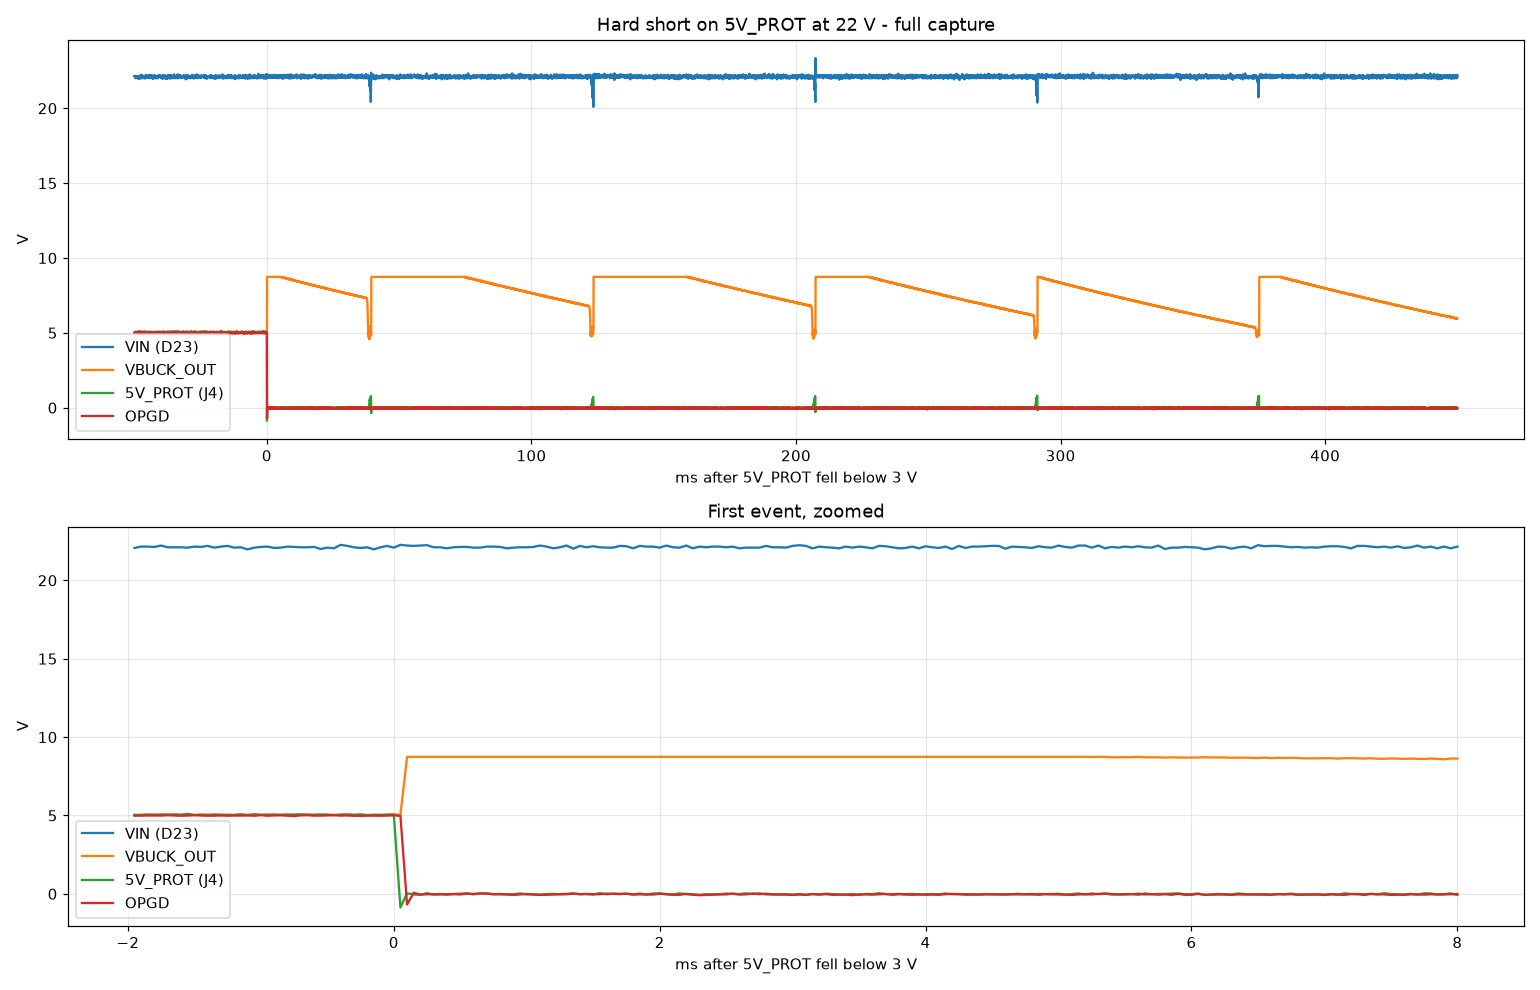
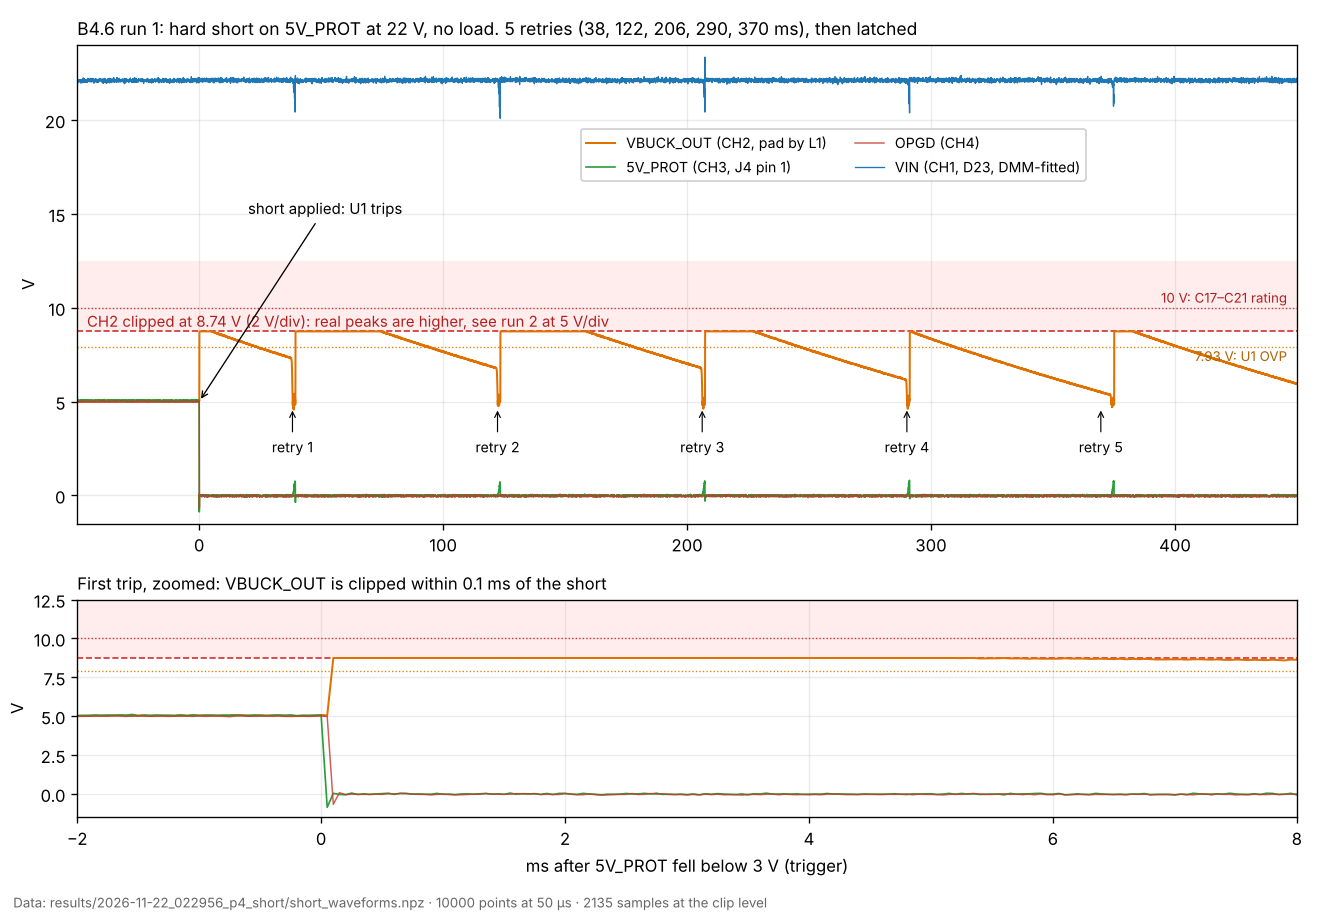
Label and annotate every scope capture; fix the short-circuit evidence
- bench_test/scope_annotated/: all 35 raw DHO804 captures with a title, test conditions,
  run folder, channel legend (signal, probe point, scale, coupling) and call-outs.
  Made by tools/annotate_scope.py from tools/scope_labels.py; raw files untouched.
- README: every scope figure is now the annotated capture, next to the Python plot of
  the same run where one exists (start-up, hot-plug, load step, short circuit).
- B4.6 short circuit: run 1 (CH2 at 2 V/div) clipped at 8.74 V, so its plot never
  showed the real peaks. Re-plotted with the clipping marked (tools/p4_short_replot.py).
  Run 2 (5 V/div) peaks read off the capture: ~9.3 V on the trip, 9.6-11.3 V on the
  5 retries, 4 of 5 above the 10 V rating of C17-C21 (was "~11 V on every retry").
- Removed the broken run 2 analysis plot (its waveform download held only 20 ms of
  pre-trigger data) and the images/scope_*.png duplicates of raw captures.

Changed region(s): [[0.0, 0.0, 0.9939, 1.0], [0.6523, 0.1228, 0.8076, 0.2149], [0.1864, 0.2149, 0.3106, 0.2456]]

diff --git a/README.md b/README.md
@@ -14,6 +14,7 @@ characterization: what it does, how close it is to its design, and where its lim
 | Original DVT/EOL test plan | [`bench_test/AeroDesign_PowerBoard_DVT_EOL_Test_Plan.xlsx`](bench_test/AeroDesign_PowerBoard_DVT_EOL_Test_Plan.xlsx) |
 | Automation scripts (PSU, scope, load) | [`bench_test/tools/`](bench_test/tools) |
 | Raw data and scope captures | [`bench_test/results/`](bench_test/results), [`bench_test/scope/`](bench_test/scope) |
+| Scope captures, labelled and annotated (all 35) | [`bench_test/scope_annotated/`](bench_test/scope_annotated) |
 | Probe and bodge-wire map | [`bench_test/probe_point_map.png`](bench_test/probe_point_map.png) |
 
 **Bench:**
@@ -78,6 +79,9 @@ The short-circuit test goes far beyond that. What is still untested is listed at
 
 ## Test cases
 
+Every scope capture below is the raw screenshot with a title, the test conditions, a channel legend (signal, probe point, scale) and call-outs added by [`annotate_scope.py`](bench_test/tools/annotate_scope.py). The originals are in [`bench_test/scope/`](bench_test/scope). Where the same run was also logged as data, its Python plot sits next to the capture.
+
+
 ### 1. Input protection thresholds
 **Method:** the supply is stepped 20 mV at a time with a 0.5 A load. VIN is measured at the board, and the
 input eFuse power-good flag marks the switching point. For reverse polarity, the supply leads are swapped and a
@@ -91,7 +95,9 @@ meter in series measures the current.
 
 | Input UVLO turn-on with 0.5 A load: clean, no chatter | Over-voltage trip at 24.9 V |
 |---|---|
-| ![](images/scope_uvlo_rise_0A5.png) | ![](images/scope_ovp_trip.png) |
+| ![B2.1 UVLO turn-on, annotated scope capture](bench_test/scope_annotated/B2.1_uvlo_rise.png) | ![B2.5 over-voltage trip, annotated scope capture](bench_test/scope_annotated/B2.5_ovp_trip.png) |
+| **UVLO turn-off** | **Over-voltage recovery at 23.0 V** |
+| ![B2.3 UVLO turn-off, annotated scope capture](bench_test/scope_annotated/B2.3_uvlo_fall.png) | ![B2.6 over-voltage recovery, annotated scope capture](bench_test/scope_annotated/B2.6_ovp_recover.png) |
 
 ### 2. Start-up and power sequencing
 **Method:** power is applied with a hand-touched + lead (ground fixed), as a battery plug-in would apply it.
@@ -105,7 +111,11 @@ All four rails are captured.
 - **Start-up into a 1.9 A load:** the rail is good at **9.3 ms (22 V) and 10.3 ms (7.4 V)**, with no restart.
   - At 7.4 V the input sags to 6.75 V, still 1.2 V above the UVLO turn-off.
 
-![Start-up at 12 V](images/startup.png)
+| Scope: 12 V, no load (annotated) | Logged data, same run |
+|---|---|
+| ![B3.4 start-up at 12 V, annotated scope capture](bench_test/scope_annotated/B3.4_12V_0A_opgd.png) | ![Start-up at 12 V, Python plot](images/startup.png) |
+
+Start-up into 1.9 A at 7.4 V, the worst case: [`B3.5_7V4_1A9_r2.png`](bench_test/scope_annotated/B3.5_7V4_1A9_r2.png).
 
 ### 3. Hot-plug overshoot
 **Method:** a live supply is touched onto the input, sampled at 3.2 ns with full bandwidth and no load.
@@ -115,7 +125,9 @@ All four rails are captured.
 - **Where it lands:** Q4's body diode then blocks reverse current, so the peak stays on U4's input, and the leads ring at about 2 MHz against D23.
 - **At 16.8 V (4S full charge):** VIN reaches **30.5 V**, on 30 V-rated parts. U4 is still off at that instant, so the buck FETs are not exposed.
 
-![Hot-plug overshoot](images/hotplug.png)
+| Scope: 16.8 V hot-plug (annotated) | Logged data, all three voltages |
+|---|---|
+| ![B3.6 hot-plug at 16.8 V, annotated scope capture](bench_test/scope_annotated/B3.6_hotplug_16.8V.png) | ![Hot-plug overshoot, Python plot](images/hotplug.png) |
 
 ### 4. Switch node
 **Result:**
@@ -125,9 +137,11 @@ All four rails are captured.
 - **The changeover** matches the 3.3 µH inductor's ≈ 2.9 A peak-to-peak ripple at 12 V in.
 - **Edge stress at 22 V:** the edge peaks at **23.4 V**, a 22 % margin to the 30 V FETs, and undershoots to -2.0 V (dead time).
 
-| 22 V, 1.9 A rising edge (1.25 GSa/s) | 12 V, no load: diode emulation |
+| 22 V, 1.9 A rising edge (1.25 GSa/s) | 22 V, 1.9 A falling edge (1.25 GSa/s) |
 |---|---|
-| ![](images/scope_sw_edge_22V_1A9.png) | ![](images/scope_sw_light_load_0A.png) |
+| ![B3.8 rising edge, annotated scope capture](bench_test/scope_annotated/B3.8_sw_rise_22V_1A9_1G25.png) | ![B3.8 falling edge, annotated scope capture](bench_test/scope_annotated/B3.8_sw_fall_22V_1A9_1G25.png) |
+| **12 V, 1.9 A: continuous, 308.8 kHz** | **12 V, no load: diode emulation** |
+| ![B3.7 switch-node frequency, annotated scope capture](bench_test/scope_annotated/B3.7_sw_freq_12V_1A9.png) | ![B3.9 switch node at no load, annotated scope capture](bench_test/scope_annotated/B3.9_sw_12V_0.0A.png) |
 
 ### 5. Efficiency and regulation
 **Method:** automatic sweep: 4 input voltages × 11 loads (0-1.9 A). Rails come from scope means, anchored to DMM
@@ -156,7 +170,9 @@ the ground loop. The noise floor was 2.5 mVpp.
 
 | 5V_PROT, 16.8 V / 1.9 A | VBUCK_OUT, 22 V / 1.9 A |
 |---|---|
-| ![](images/scope_ripple_5vprot_16V8_1A9.png) | ![](images/scope_ripple_vbuck_22V_1A9.png) |
+| ![B3.10 5V_PROT ripple, annotated scope capture](bench_test/scope_annotated/B3.10_vsrv_ripple_16V8_1A9.png) | ![B3.13 VBUCK_OUT ripple, annotated scope capture](bench_test/scope_annotated/B3.13_vbuck_ripple_22V_1A9.png) |
+| **Probe noise floor** | **Input ripple, 16.8 V / 1.9 A** |
+| ![B3.1 noise floor, annotated scope capture](bench_test/scope_annotated/B3.1_noisefloor.png) | ![B3.14 input ripple, annotated scope capture](bench_test/scope_annotated/B3.14_vin_ripple_16V8_1A9.png) |
 
 ### 7. Load step
 **Method:** the load's built-in square wave steps between 0.1 and 1.8 A (about 1.55 A), with edges of about 10 µs.
@@ -167,7 +183,11 @@ The scope averages 16 captures.
 - **Dip size:** **172 / 121 / 67 mV** at 7.4 / 16.8 / 22 V. It is largest at low VIN, where the inductor current can only ramp at (VIN - VOUT)/L ≈ 0.7 A/µs.
 - **Recovery:** 160-430 µs, slower than a 50 kHz crossover would give, so the loop is likely conservatively compensated.
 
-![Load step](images/loadstep.png)
+| Scope: 7.4 V, 0.1 → 1.8 A (annotated) | Logged data, all six steps |
+|---|---|
+| ![B3.19 load step at 7.4 V, annotated scope capture](bench_test/scope_annotated/B3.19_loadstep_7.4V_load.png) | ![Load step, Python plot](images/loadstep.png) |
+
+The other five steps: [`bench_test/scope_annotated/`](bench_test/scope_annotated/) (`B3.19_loadstep_*`).
 
 ### 8. Servo current sense
 **Result:**
@@ -189,17 +209,24 @@ The scope averages 16 captures.
 - **U1 trips at once** through its fast-trip path, rather than the 2 ms blanking used for overloads.
 - **It retries 5 times, then latches off.** The first retry comes after about 40 ms, the rest about 85 ms apart. A power-cycle recovers the board, with no damage.
 - **Each trip causes a load dump on VBUCK_OUT.** The inductor's stored energy (≈ ½ · 3.3 µH · 17.8 A² ≈ 0.5 mJ) has nowhere to go but C17-C21 (5 × 4.7 µF).
-  - Read off the capture below: VBUCK_OUT jumps to **≈ 8.9 V on the first trip and ≈ 11 V on every retry**.
-  - That is above U1's 7.93 V over-voltage threshold and **above the 10 V rating of C17-C21**.
+  - Read off run 2's capture (5 V/div, ±0.3 V): VBUCK_OUT jumps to **≈ 9.3 V on the first trip** and **9.6 to 11.3 V on the five retries**.
+  - Every one is above U1's 7.93 V over-voltage threshold, and **4 of the 5 retries go above the 10 V rating of C17-C21**.
+- **Two runs, and why both are shown:**
+  - Run 1 had VBUCK_OUT at 2 V/div. It went off the top of the screen, so its logged data flat-tops at 8.74 V. That is the scope's range, not the peak.
+  - Run 2 repeated the test at 5 V/div. Its waveform download failed (it saved only 20 ms before the trigger), so its screenshot is the record of the peaks.
 
-![Short circuit at 22 V: VBUCK_OUT (cyan, 5 V/div), 5V_PROT (magenta), OPGD (blue)](images/scope_short_circuit_22V.png)
+![B4.6 run 2: short circuit at 22 V, CH2 at 5 V/div, annotated scope capture](bench_test/scope_annotated/B4.6_short_22V_full_r2.png)
+
+Run 1, the logged data with the clipping marked ([raw capture](bench_test/scope_annotated/B4.6_short_22V_full.png)):
+
+![B4.6 run 1: logged data, VBUCK_OUT clipped at 8.74 V](bench_test/scope/B4.6_short_analysis.png)
 
 ## Findings
 
 | ID | Severity | Finding |
 |---|---|---|
 | F1 | **Major** | Hot-plug overshoot of 1.8× VIN: a 4S plug-in puts **30.5 V** on U4's input and 30 V parts. The D23 clamp (≈ 27-39 V) does not protect them. |
-| F2 | **Major** | Load dump on VBUCK_OUT at every servo eFuse trip: **≈ 11 V on 10 V-rated C17-C21**, above U1's 7.93 V over-voltage threshold. Too little buck-side capacitance. |
+| F2 | **Major** | Load dump on VBUCK_OUT at every servo eFuse trip: **up to ≈ 11.3 V on 10 V-rated C17-C21** (4 of 5 retries above 10 V), above U1's 7.93 V over-voltage threshold. Too little buck-side capacitance. |
 | F3 | **Major** | Current sense is 0.25 V/A (INA240A2 = 50 V/V; the design assumed 20 V/V). The FC ADC clips at **≈ 3.2 A** and sees > 3.3 V above that; the output saturates at ≈ 9.8 A. |
 | F4 | Moderate | 23.5 mΩ servo path after the feedback point: 50 mV droop at 1.9 A, about **0.35 V and 5 W at 15 A**. |
 | F5 | Minor | 5V_PROT ripple 14-15 mVpp against an 8 mV target, caused by capacitor DC-bias loss. |

diff --git a/bench_test/README.md b/bench_test/README.md
@@ -5,9 +5,10 @@
 | `PowerBoard_Rev3_BenchTest_Log.xlsx` | The test log: procedure steps, limits, verdicts and notes. Also the regulation matrix, eFuse, load-step, outstanding-tests, design-notes and issue-log sheets |
 | `AeroDesign_PowerBoard_DVT_EOL_Test_Plan.xlsx` | The original DVT/EOL plan this campaign was cut down from (test IDs map via the `Plan ref` column) |
 | `probe_point_map.png` | Where the probe and bodge wires go, generated from the PCB pad data |
-| `tools/` | Python automation: KA3005P + DHO804 + DC-load control with a safety monitor (`bench_lib.py`), one script per test, `make_report_plots.py` for the README plots |
+| `tools/` | Python automation: KA3005P + DHO804 + DC-load control with a safety monitor (`bench_lib.py`), one script per test, `make_report_plots.py` for the README plots, `p4_short_replot.py` for the B4.6 run 1 plot |
 | `results/<date>_<time>_<test>/` | Raw data per run: `data.csv`, `meta.json` (settings, probe map, results), `notes.txt`, scope PNGs, waveform CSVs |
 | `scope/` | The latest scope capture per test ID |
+| `scope_annotated/` | Every capture in `scope/` with a title, the test conditions, a channel legend (signal, probe point, scale, coupling) and call-outs. Made by `tools/annotate_scope.py` from `tools/scope_labels.py`; re-run it after a new capture |
 
 Runs are kept as recorded, including aborted and superseded ones. Every abort is explained in its `notes.txt` and
 in the Issue Log. The values quoted in the top-level README come from the runs named in the log's notes column.
